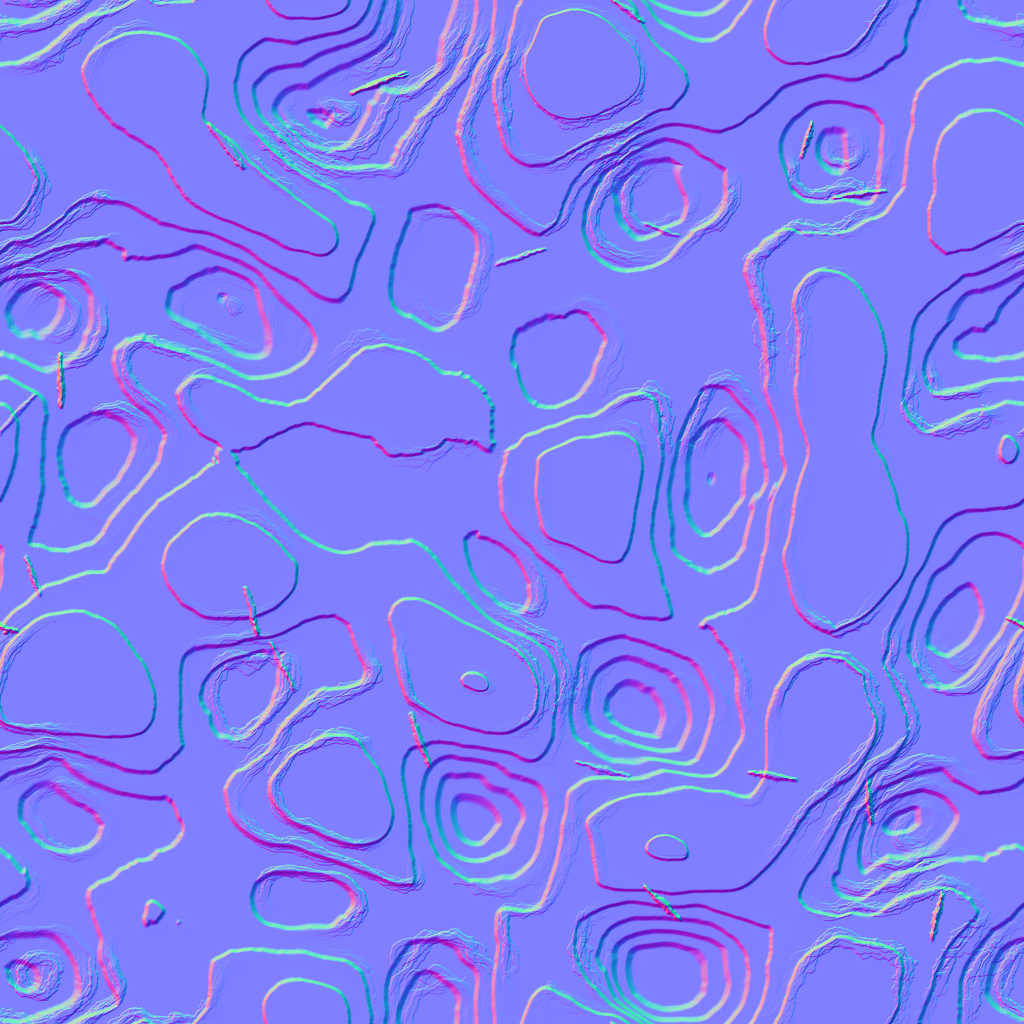
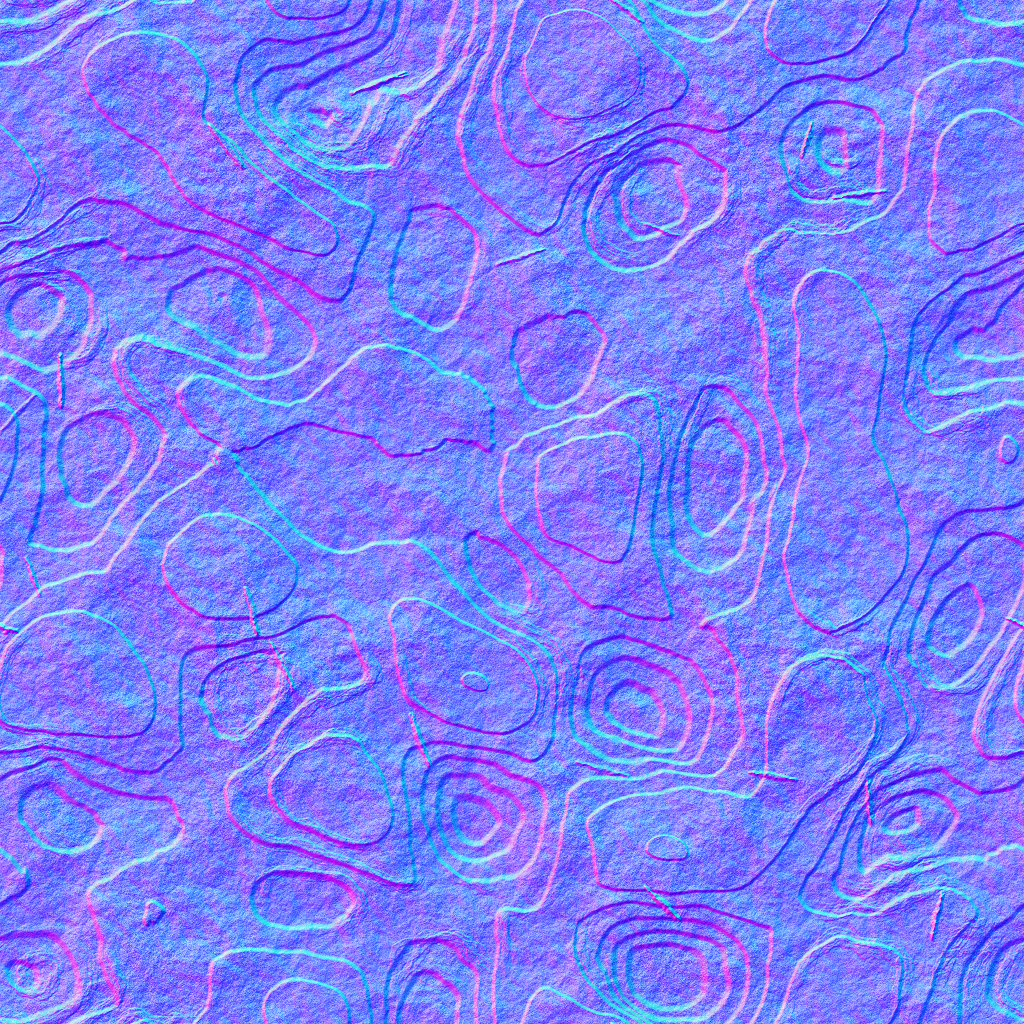
Melhoria no cenario - Textura Solo

diff --git a/hx1_walker_reborn/src/world/TerrainArena.js b/hx1_walker_reborn/src/world/TerrainArena.js
@@ -8,7 +8,7 @@
  * - Geração de dunas e escombros procedurais positivos (sem zonas negativas)
  * - Instanciação de plataformas e degraus sólidos escaláveis (steppableBoxes)
  * - Criação de pilares cilíndricos com bordas neon
- * - Shader PBR customizado com blend de normal maps (Ladrilho Metálico vs Areia Fosca)
+ * - Shader PBR customizado com blend de materiais (Ladrilho Metálico Azulado vs Rocha Estilizada com Relevo)
  * - Recálculo dinâmico de vértices e relevo via slider HUD
  */
 
@@ -193,30 +193,36 @@ export class TerrainArena {
         }
         this.terrainGeo.computeVertexNormals();
 
-        // Carregar Normal Maps de Piso e Areia
+        // Carregar Texturas de Piso e Rocha/Relevo
         const textureLoader = new THREE.TextureLoader();
         const floorNormalTex = textureLoader.load('./assets/img/normal/piso.jfif');
         floorNormalTex.wrapS = THREE.RepeatWrapping;
         floorNormalTex.wrapT = THREE.RepeatWrapping;
         floorNormalTex.colorSpace = THREE.NoColorSpace;
 
-        const sandNormalTex = textureLoader.load('./assets/img/normal/rocha.jpg');
-        sandNormalTex.wrapS = THREE.RepeatWrapping;
-        sandNormalTex.wrapT = THREE.RepeatWrapping;
-        sandNormalTex.colorSpace = THREE.NoColorSpace;
+        const rochaNormalTex = textureLoader.load('./assets/img/normal/rocha_style_normal.png');
+        rochaNormalTex.wrapS = THREE.RepeatWrapping;
+        rochaNormalTex.wrapT = THREE.RepeatWrapping;
+        rochaNormalTex.colorSpace = THREE.NoColorSpace;
+
+        const rochaColorTex = textureLoader.load('./assets/img/rocha_style_color.png');
+        rochaColorTex.wrapS = THREE.RepeatWrapping;
+        rochaColorTex.wrapT = THREE.RepeatWrapping;
+        rochaColorTex.colorSpace = THREE.SRGBColorSpace;
 
         this.terrainMat = new THREE.MeshStandardMaterial({
             roughness: 0.5,
             metalness: 0.05,
-            envMapIntensity: 0.05,
+            envMapIntensity: 0.0,
             wireframe: false
         });
 
         // Injeção de Shader Customizado no Material Standard
         this.terrainMat.onBeforeCompile = (shader) => {
             shader.uniforms.uFloorNormalMap = { value: floorNormalTex };
-            shader.uniforms.uSandNormalMap = { value: sandNormalTex };
-            shader.uniforms.uNormalScale = { value: 0.10 };
+            shader.uniforms.uSandNormalMap = { value: rochaNormalTex };
+            shader.uniforms.uSandColorMap = { value: rochaColorTex };
+            shader.uniforms.uNormalScale = { value: 0.25 };
 
             shader.vertexShader = `
                 varying float vWorldY;
@@ -234,6 +240,7 @@ export class TerrainArena {
             shader.fragmentShader = `
                 uniform sampler2D uFloorNormalMap;
                 uniform sampler2D uSandNormalMap;
+                uniform sampler2D uSandColorMap;
                 uniform float uNormalScale;
                 varying float vWorldY;
                 varying vec2 vWorldXZ;
@@ -243,15 +250,15 @@ export class TerrainArena {
                 `
                 #include <normal_fragment_maps>
 
-                // --- NORMAL MAPPING BLEND (PISO vs AREIA) ---
+                // --- NORMAL MAPPING BLEND (PISO LADRILHADO vs ROCHA ESTILIZADA) ---
                 float hNorm = max(0.0, vWorldY);
                 float rubbleBlendNorm = smoothstep(0.02, 0.35, hNorm);
 
-                // Piso com repetição de 8m x 8m (a imagem piso.jfif possui 2x2 ladrilhos internos de 4m x 4m cada)
+                // Normal map do piso base (escala de 8m)
                 vec3 nFloorMap = texture2D(uFloorNormalMap, vWorldXZ / 8.0).xyz * 2.0 - 1.0;
 
-                // Areia e escombros com escala de repetição de 3.2m
-                vec3 nSandMap = texture2D(uSandNormalMap, vWorldXZ / 3.2).xyz * 2.0 - 1.0;
+                // Normal map da rocha com escala ampliada (60m)
+                vec3 nSandMap = texture2D(uSandNormalMap, vWorldXZ / 60.0).xyz * 2.0 - 1.0;
 
                 // Mistura suave dos mapas normais de acordo com a elevação do relevo
                 vec3 mapN = mix(nFloorMap, nSandMap, rubbleBlendNorm);
@@ -271,27 +278,27 @@ export class TerrainArena {
                 `
                 #include <roughnessmap_fragment>
 
-                // Rugosidade adaptativa: Placas do piso acetinadas (0.34), juntas foscas (0.80), terra/areia fosca (0.92)
-                vec2 rTileUV = vWorldXZ / 4.0;
+                // Rugosidade adaptativa: Placas do piso acetinadas (0.34), juntas foscas (0.80), rocha mineral (0.75)
+                vec2 rTileUV = vWorldXZ / 8.0;
                 vec2 rFTile = fract(rTileUV);
-                vec2 rGridLine = smoothstep(0.0, 0.025, rFTile) * smoothstep(1.0, 0.975, rFTile);
+                vec2 rGridLine = smoothstep(0.0, 0.02, rFTile) * smoothstep(1.0, 0.98, rFTile);
                 float rBorderMask = min(rGridLine.x, rGridLine.y);
 
                 float rH = max(0.0, vWorldY);
                 float rRubbleBlend = smoothstep(0.02, 0.30, rH);
 
                 float floorRoughness = mix(0.80, 0.34, rBorderMask);
-                roughnessFactor = mix(floorRoughness, 0.92, rRubbleBlend);
+                roughnessFactor = mix(floorRoughness, 0.75, rRubbleBlend);
                 `
             ).replace(
                 '#include <metalnessmap_fragment>',
                 `
                 #include <metalnessmap_fragment>
 
-                // Metalicidade adaptativa: Placas do piso metálicas (0.55), juntas oxidadas (0.12), terra/areia mineral (0.04)
-                vec2 mTileUV = vWorldXZ / 4.0;
+                // Metalicidade adaptativa: Placas do piso metálicas (0.55), juntas oxidadas (0.12), rocha mineral (0.04)
+                vec2 mTileUV = vWorldXZ / 8.0;
                 vec2 mFTile = fract(mTileUV);
-                vec2 mGridLine = smoothstep(0.0, 0.025, mFTile) * smoothstep(1.0, 0.975, mFTile);
+                vec2 mGridLine = smoothstep(0.0, 0.02, mFTile) * smoothstep(1.0, 0.98, mFTile);
                 float mBorderMask = min(mGridLine.x, mGridLine.y);
 
                 float mH = max(0.0, vWorldY);
@@ -305,32 +312,27 @@ export class TerrainArena {
                 `
                 #include <color_fragment>
 
-                // --- 1. TEXTURA PROCEDURAL TILE PARA O PISO PLANO (Y = 0) ---
-                vec2 tileUV = vWorldXZ / 4.0;
+                // --- 1. TEXTURA PROCEDURAL TILE PARA O PISO PLANO (LADRILHO AZUL-ARDÓSIA SCI-FI) ---
+                vec2 tileUV = vWorldXZ / 8.0;
                 vec2 fTile = fract(tileUV);
-                vec2 gridLine = smoothstep(0.0, 0.025, fTile) * smoothstep(1.0, 0.975, fTile);
+                vec2 gridLine = smoothstep(0.0, 0.02, fTile) * smoothstep(1.0, 0.98, fTile);
                 float borderMask = min(gridLine.x, gridLine.y);
 
                 float tileCheck = mod(floor(tileUV.x) + floor(tileUV.y), 2.0);
-                vec3 colFloorTileA = vec3(0.11, 0.14, 0.18); // Ladrilho ardósia
-                vec3 colFloorTileB = vec3(0.085, 0.11, 0.145); // Ladrilho complementar
+                vec3 colFloorTileA = vec3(0.10, 0.14, 0.19); // Ladrilho ardósia azulado
+                vec3 colFloorTileB = vec3(0.075, 0.105, 0.145); // Ladrilho azul profundo complementar
                 vec3 colFloorTile = mix(colFloorTileA, colFloorTileB, tileCheck * 0.45);
 
                 vec3 colFloorBorder = vec3(0.020, 0.028, 0.040); // Juntas e ranhuras
                 vec3 finalTileFloor = mix(colFloorBorder, colFloorTile, borderMask);
 
-                // --- 2. ESCOMBROS E MONTÍCULOS TERROSOS SOMBRIOS (Y > 0) ---
-                vec3 colEarthBase = vec3(0.07, 0.045, 0.030);
-                vec3 colEarthMid  = vec3(0.13, 0.085, 0.055);
-                vec3 colEarthPeak = vec3(0.19, 0.130, 0.085);
+                // --- 2. TEXTURA DE ROCHA (RGB DIRETO DE ROCHA_STYLE_COLOR.PNG, ESCALA 60m) ---
+                vec3 colRocha = texture2D(uSandColorMap, vWorldXZ / 60.0).rgb;
 
+                // --- 3. TRANSIÇÃO SUAVE: LADRILHO AZUL NO PISO PLANO -> COR RGB DA ROCHA NO RELEVO ---
                 float h = max(0.0, vWorldY);
-                float tElevation = smoothstep(0.2, 4.5, h);
-                vec3 colRubble = mix(colEarthBase, mix(colEarthMid, colEarthPeak, smoothstep(1.5, 4.5, h)), tElevation);
-
-                // --- 3. TRANSIÇÃO SUAVE ENTRE O PISO TILE E OS ESCOMBROS ---
-                float rubbleBlend = smoothstep(0.02, 0.30, h);
-                vec3 finalTerrain = mix(finalTileFloor, colRubble, rubbleBlend);
+                float rubbleBlend = smoothstep(0.02, 0.35, h);
+                vec3 finalTerrain = mix(finalTileFloor, colRocha, rubbleBlend);
 
                 diffuseColor = vec4(finalTerrain, 1.0);
                 `

diff --git a/hx1_walker_reborn/src/core/Engine.js b/hx1_walker_reborn/src/core/Engine.js
@@ -89,15 +89,15 @@ export class Engine {
      * - Luzes de borda distantes (Rim lights) em Ciano e Vermelho
      */
     setupLighting() {
-        // Luz Ambiente
-        this.ambientLight = new THREE.AmbientLight(0x0a1220, 0.04);
+        // Luz Ambiente Neutra
+        this.ambientLight = new THREE.AmbientLight(0x28282c, 0.12);
         this.scene.add(this.ambientLight);
 
         // Vetor Direcional Fixo do Luar (Direção e Ângulo Imutáveis no Mundo)
         this.sunLightDirOffset = new THREE.Vector3(38, 70, 32);
 
-        // Luar Direcional Potente
-        this.sunLight = new THREE.DirectionalLight(0x8faecf, 2.60);
+        // Luz Direcional Principal Neutra / Branca Pura (Sem contaminação de tons azuis)
+        this.sunLight = new THREE.DirectionalLight(0xffffff, 2.90);
         this.sunLight.position.copy(this.sunLightDirOffset);
         this.sunLight.castShadow = true;
         this.sunLight.shadow.mapSize.width = 2048;
@@ -118,12 +118,12 @@ export class Engine {
         this.scene.add(this.sunLight);
         this.scene.add(this.sunLight.target);
 
-        // Luzes de Borda Suaves e Distantes
-        this.rimLightBlue = new THREE.PointLight(0x00d2ff, 1.5, 45);
+        // Luzes de Borda Suaves e Neutras (Sem contaminação ciano)
+        this.rimLightBlue = new THREE.PointLight(0xf0f2f5, 0.45, 45);
         this.rimLightBlue.position.set(-55, 15, -45);
         this.scene.add(this.rimLightBlue);
 
-        this.rimLightRed = new THREE.PointLight(0xff0044, 1.2, 45);
+        this.rimLightRed = new THREE.PointLight(0xff4433, 0.45, 45);
         this.rimLightRed.position.set(55, 15, -45);
         this.scene.add(this.rimLightRed);
     }
